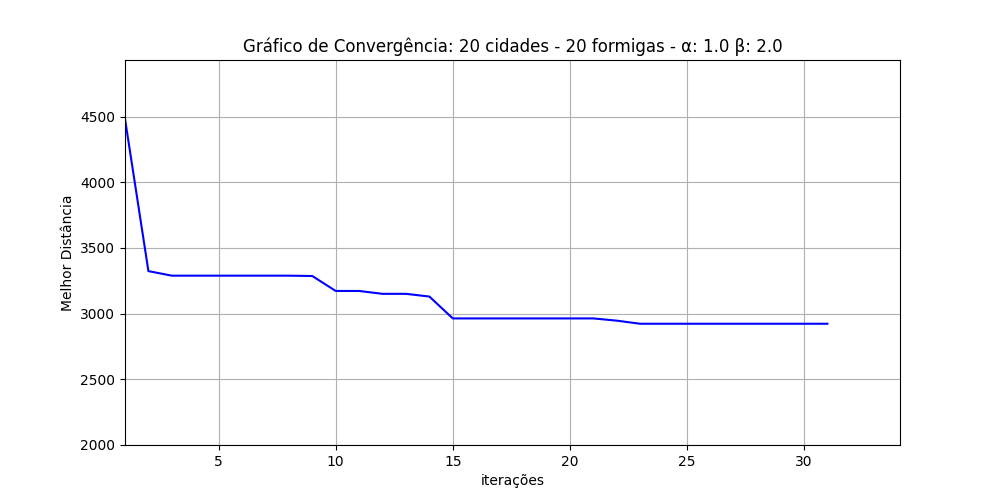
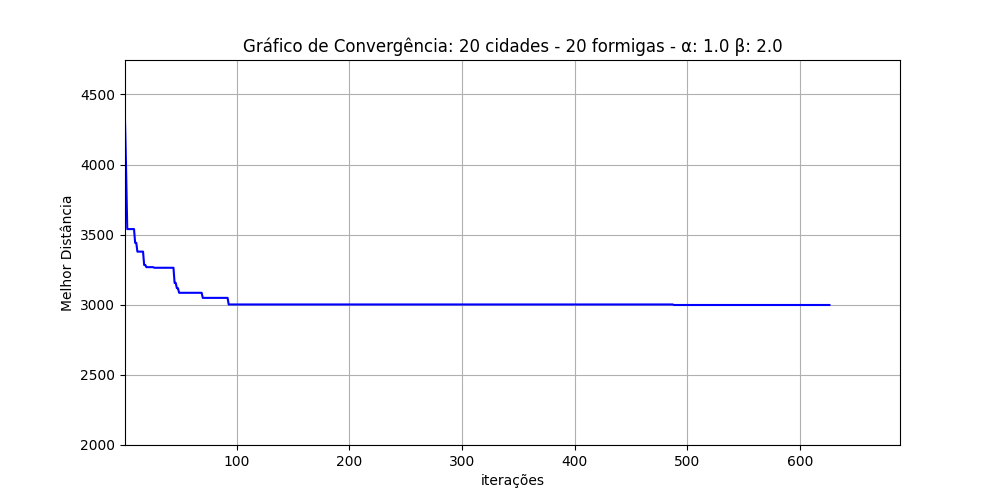
Running test examples to plot graphs

diff --git a/caixeiro-game-master/ui/manager.py b/caixeiro-game-master/ui/manager.py
@@ -38,12 +38,12 @@ class UIManager:
         
         # Hiperparâmetros padrão
         self.params = {
-            "pop_size": 200,
-            "mutation_rate": 0.1,
-            "num_ants": 20,
+            "pop_size": 150,
+            "mutation_rate": 0.03,
+            "num_ants": 40,
             "alpha": 1.0,
-            "beta": 5.0,
-            "evaporation": 0.3
+            "beta": 2.0,
+            "evaporation": 0.25
         }
         
         self.running_simulation = False
@@ -82,24 +82,48 @@ class UIManager:
             if event.key == pygame.K_1: self.state = State.SETUP
             
             if event.key == pygame.K_2: 
-                self.setup_solvers(State.GA), 
+                self.setup_solvers(State.GA),
+                
+                # Save current path for GA convergence plots 
                 self.curr_path = Path(self.ago_path)
+                
+                # Name of the algorithm for plot titles and filenames
                 self.algo_name = "ago"
+                
+                # Dynamic title based on current parameters
                 self.title = f"Gráfico de Convergência: {len(self.cities)} cidades - {self.params.get('pop_size')} população - {self.params.get('mutation_rate')*100}% mutação"
+                
+                # Dynamic filename for GA convergence plot
                 self.filename = f"pop_size_{self.params.get('pop_size')}_cities_{len(self.cities)}_convergence_plot.png"
                 
             if event.key == pygame.K_3: 
-                self.setup_solvers(State.ACO), 
+                self.setup_solvers(State.ACO),
+                
+                # Save current path for ACO convergence plots 
                 self.curr_path = Path(self.aco_path)
+                
+                # Name of the algorithm for plot titles and filenames
                 self.algo_name = "aco"
-                self.title = f"Gráfico de Convergência: {len(self.cities)} cidades - {self.params.get('num_ants')} formigas - α: {self.params.get('alpha')} β: {self.params.get('beta')}"
+                
+                # Dynamic title based on current parameters
+                self.title = f"Gráfico de Convergência: {len(self.cities)} cidades - {self.params.get('num_ants')} formigas - α: {self.params.get('alpha')} - β: {self.params.get('beta')} - evap: {self.params.get('evaporation')}"
+                
+                # Dynamic filename for ACO convergence plot
                 self.filename = f"ants_{self.params.get('num_ants')}_cities_{len(self.cities)}_convergence_plot.png"
                 
             if event.key == pygame.K_4: 
                 self.setup_solvers(State.COMPARISON)
+                
+                # Save current path for comparison convergence plots (can be same as logs_path or a separate folder)
                 self.curr_path = Path(self.logs_path)
+                
+                # Name of the algorithm for plot titles and filenames
                 self.algo_name = "comparison"
-                self.title = f"Gráfico de Convergência Comparativo: {len(self.cities)} cidades - GA Pop: {self.params.get('pop_size')} Mut: {self.params.get('mutation_rate')*100}% | ACO Formigas: {self.params.get('num_ants')} α: {self.params.get('alpha')} β: {self.params.get('beta')}"
+                
+                # Dynamic title based on current parameters for comparison mode
+                self.title = f"Gráfico de Convergência Comparativo: {len(self.cities)} cidades - GA Pop: {self.params.get('pop_size')} - Mut: {self.params.get('mutation_rate')*100}% | ACO Formigas: {self.params.get('num_ants')} - α: {self.params.get('alpha')} - β: {self.params.get('beta')} - evap: {self.params.get('evaporation')}"
+                
+                # Dynamic filename for comparison convergence plot
                 self.filename = f"comparison_cities_{len(self.cities)}_pop_{self.params.get('pop_size')}_ants_{self.params.get('num_ants')}_convergence_plot.png"
             
             if event.key == pygame.K_SPACE: self.running_simulation = not self.running_simulation
@@ -109,12 +133,16 @@ class UIManager:
             if event.key == pygame.K_g: self.generate_new_dataset(20)
             
             if event.key == pygame.K_s:
+                
+                # Salva o gráfico de convergência usando a função utilitária, passando o DataFrame de histórico atualizado
                 save_history_and_plots(
                 self.history,
                 algo=self.algo_name,
                 title=self.title, 
                 filename=self.curr_path / self.filename
-            ), print(f"Gráfico de convergência salvo em: {self.curr_path / self.filename}")
+            ), 
+            # 
+            print(f"Gráfico de convergência salvo em: {self.curr_path / self.filename}")
 
     def generate_new_dataset(self, num_cities: int):
         """Gera um novo dataset, salva no JSON e recarrega na memória."""

diff --git a/caixeiro-game-master/solvers/genetic_algorithm.py b/caixeiro-game-master/solvers/genetic_algorithm.py
@@ -119,7 +119,7 @@ class GeneticAlgorithm(TSPSolver):
         fitness_scores = [self._calc_fitness(ind) for ind in self.population]
         
         # 2. Apply elitism - preserve the top 10% elite individuals
-        elite_size = int(len(self.population) * 0.1)  # 10% da população como elite
+        elite_size = int(len(self.population) * 0.2)  # 10% da população como elite
         elite_individuals = self._elitism_selection(fitness_scores, elite_size=elite_size)
         
         # 3. Create new population starting with elites
@@ -127,12 +127,17 @@ class GeneticAlgorithm(TSPSolver):
         
         # 4. Fill the rest of population through tournament selection, crossover, and mutation
         while len(new_population) < self.pop_size:
+            # Selecione os pais usando seleção por torneio
             parent1 = self.tournament_selection(fitness_scores, k=5)
             parent2 = self.tournament_selection(fitness_scores, k=5)
-            # parent1 = self.roulette_wheel_selection(  fitness_scores)
-            # parent2 = self.roulette_wheel_selection(fitness_scores)
+            
+            # Realize o crossover para gerar um filho
             child = self._crossover(parent1.copy(), parent2.copy())
+            
+            # Aplique mutação no filho
             child = self._mutate(child)
+            
+            # Adicione o filho à nova população
             new_population.append(child)
         
         # 5. Replace old population
@@ -149,11 +154,13 @@ class GeneticAlgorithm(TSPSolver):
         print(f"Best path: {self.best_path}, Distance: {round(self.best_distance, 3)}")
         
     def _calc_fitness(self, individual: List[int]) -> float:
-        """Rank-based or linear scaling"""
+        # calcula a distancia total do caminho
         distance = self.calculate_total_distance(individual)
         
         # Linear scaling: map to positive range
         max_dist = max(self.calculate_total_distance(ind) for ind in self.population)
+        
+        # retorna o fitness (quanto menor a distância, maior o fitness)
         return (max_dist - distance + 1) / (max_dist + 1)
         
     def _elitism_selection(self, score: List[float], elite_size: int = 10) -> List[List[int]]: